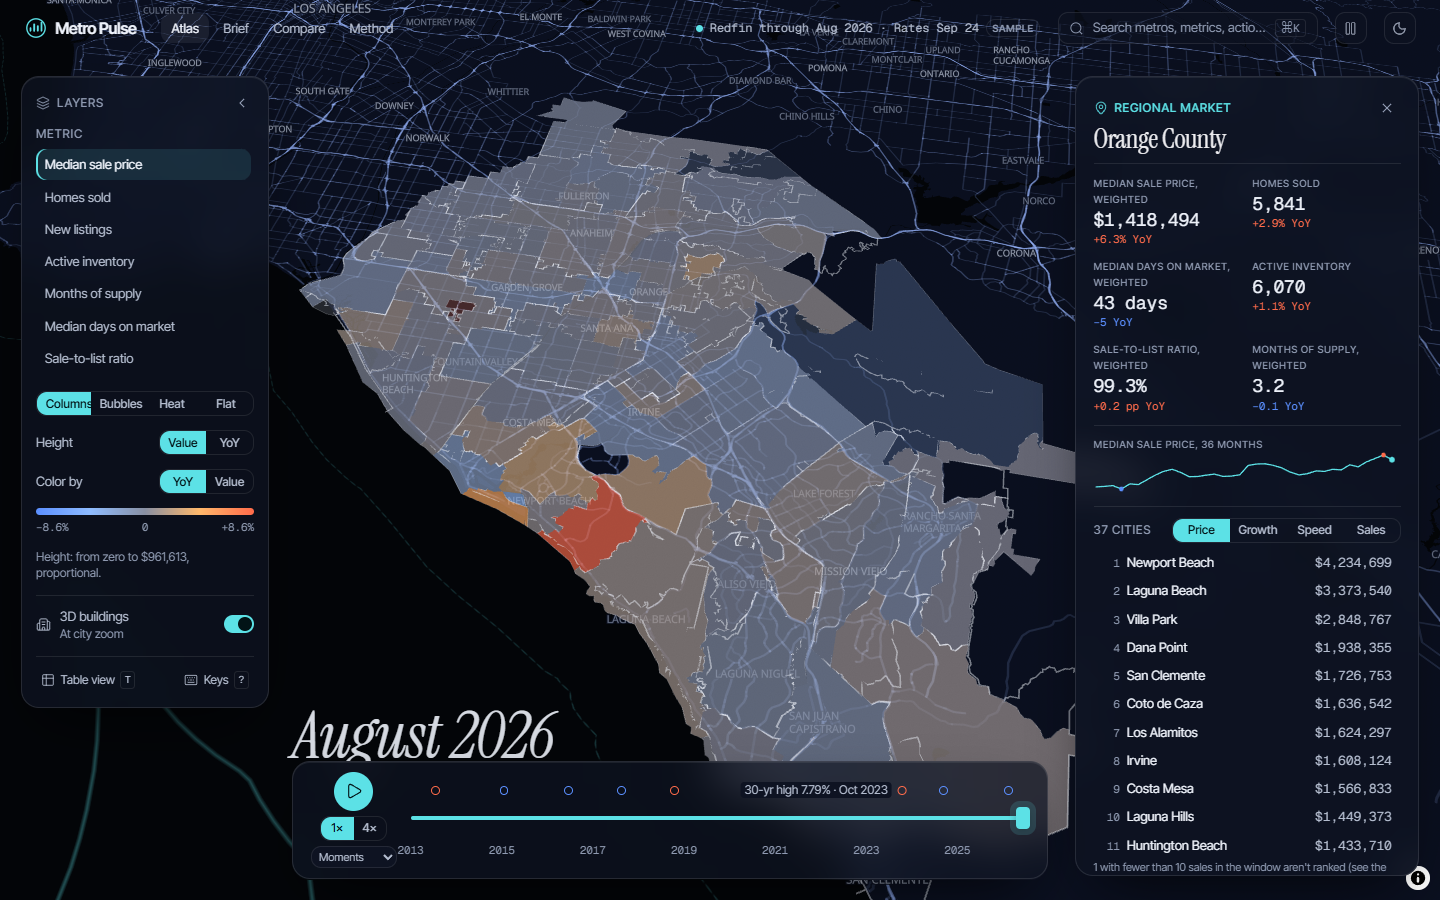
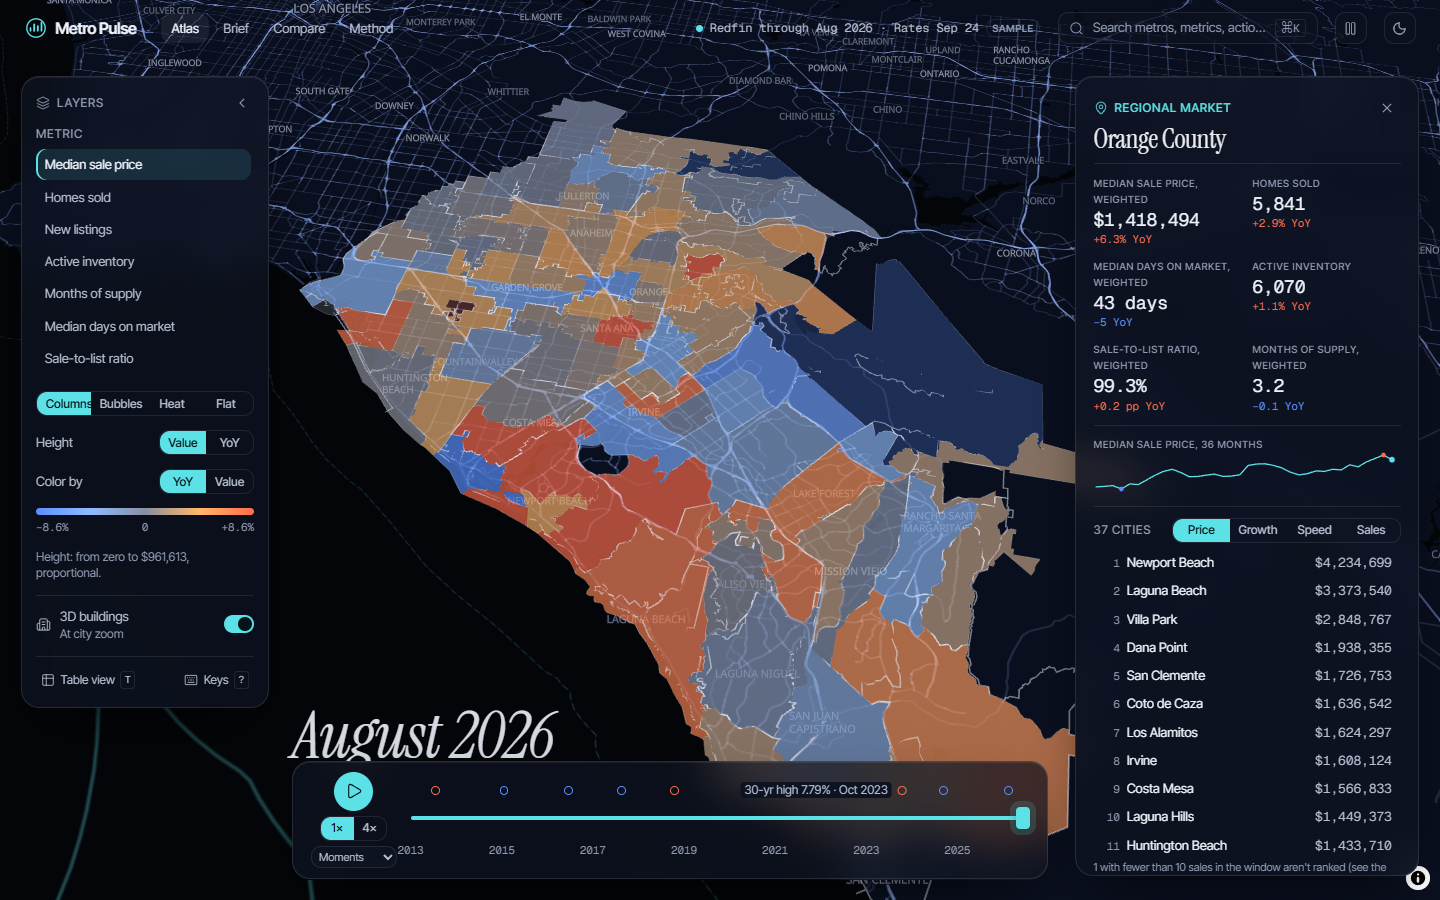
R2: clamp the ZIP YoY colors at the 90th percentile
One +100% ZIP (92657, a luxury mix shift) set the diverging bound and grayed out
the rest of the county; larger changes now take the end colors, and the legend
says so.

Changed region(s): [[0.1875, 0.1244, 0.75, 0.9333]]

diff --git a/dashboard/src/viewmodels/region.ts b/dashboard/src/viewmodels/region.ts
@@ -6,7 +6,7 @@
  * 36-month series with the same rule the atlas uses for metros (`changeAt`).
  */
 import type { MetricRegistryEntry, RegionGeometry, RegionOutput } from '../data/schema.gen';
-import { divergingBound, divergingColor, sequentialColor, type DivergingStops, type RGB } from '../lib/columns';
+import { divergingColor, robustBound, sequentialColor, type DivergingStops, type RGB } from '../lib/columns';
 import { changeAt } from '../lib/timeline';
 
 export type RegionArea = RegionOutput['zips'][number];
@@ -39,7 +39,7 @@ export interface ZipLayer {
   labels: Array<{ zip: string; lat: number; lon: number; text: string }>;
   /** The month shown ("latest" or a month inside the 36-month series), or null when the metric has no ZIP history for the scrubbed month. */
   month: string | null;
-  scale: { kind: 'yoy'; bound: number } | { kind: 'value'; low: number; high: number };
+  scale: { kind: 'yoy'; bound: number; clamped: boolean } | { kind: 'value'; low: number; high: number };
 }
 
 type Geometry = { type: string; coordinates: unknown } | null;
@@ -78,7 +78,8 @@ export function zipLayer(region: RegionOutput, geometry: RegionGeometry, metric:
   // Scales come from well-sampled ZIPs only, so one or two odd sales can't stretch them.
   const sampled = [...byZip.values()].filter((v) => !v.low);
   const values = sampled.map((v) => v.value).filter((v): v is number => v != null).sort((a, b) => a - b);
-  const bound = divergingBound(sampled.map((v) => v.change));
+  // The 90th percentile of |YoY|: one ZIP's +100% luxury mix shift mustn't gray out the rest (beyond it: the end colors).
+  const bound = robustBound(sampled.map((v) => v.change), 0.9, 0);
   const low = values.length ? quantile(values, 0.05) : 0;
   const high = values.length ? quantile(values, 0.95) : 1;
   const features: ZipFeature[] = [];
@@ -97,7 +98,7 @@ export function zipLayer(region: RegionOutput, geometry: RegionGeometry, metric:
       cities.push({ id: String(p.id), name: String(p.name), paths: polygons(f.geometry).flat(), lat: (p.lat as number) ?? null, lon: (p.lon as number) ?? null });
     }
   }
-  return { features, cities, labels, month: shown ?? region.data_through, scale: colorBy === 'yoy' ? { kind: 'yoy', bound } : { kind: 'value', low, high } };
+  return { features, cities, labels, month: shown ?? region.data_through, scale: colorBy === 'yoy' ? { kind: 'yoy', bound, clamped: sampled.some((v) => v.change != null && Math.abs(v.change) > bound) } : { kind: 'value', low, high } };
 }
 
 // ---------- the panel ----------

diff --git a/dashboard/src/viewmodels/region.test.ts b/dashboard/src/viewmodels/region.test.ts
@@ -37,6 +37,9 @@ describe('region view model (v3 R2)', () => {
     expect(layer.features.find((f) => f.zip === top.id)!.color).toEqual([250, 250, 250]);
     const yoy = zipLayer(region, geometry, PRICE, 'yoy', null, colors as never);
     expect(yoy.scale.kind).toBe('yoy');
+    // The YoY bound is the 90th percentile of well-sampled |YoY|, so an outlier clamps instead of graying the rest.
+    const changes = region.zips.filter((z) => !z.low_sample).map((z) => Math.abs(z.latest.median_sale_price!.yoy ?? 0));
+    if (yoy.scale.kind === 'yoy') expect(yoy.scale.bound).toBeLessThan(Math.max(...changes));
     // A month without ZIP history for the metric falls back to the latest month.
     expect(zipLayer(region, geometry, metric('sold_above_list', 'pp'), 'value', region.dates[5]!, colors as never).month).toBe(region.data_through);
   });

diff --git a/dashboard/src/atlas/RegionPanel.tsx b/dashboard/src/atlas/RegionPanel.tsx
@@ -186,7 +186,7 @@ function RegionLegend({ layer, metric }: { layer: ZipLayer; metric: MetricRegist
         {s.kind === 'yoy' && <span>0</span>}
         <span>{s.kind === 'yoy' ? fmtChange(metric, s.bound) : fmtMetric(metric, s.high)}</span>
       </div>
-      <div className="text-[10px] text-mp-ink-3">{s.kind === 'value' ? "5th to 95th percentile of the region's ZIPs. " : ''}Faded: fewer than 10 sales.</div>
+      <div className="text-[10px] text-mp-ink-3">{s.kind === 'value' ? "5th to 95th percentile of the region's ZIPs. " : s.clamped ? 'Larger changes take the end colors. ' : ''}Faded: fewer than 10 sales.</div>
     </div>
   );
 }

diff --git a/DECISIONS.md b/DECISIONS.md
@@ -332,7 +332,7 @@ One line per consequential judgment call made while working unattended.
 
 - R1 merged to `main` (f0b7551).
 - **Where it lives:** in the atlas, not a new page: `?region=orange-county` (from ⌘K, the idle panel's "Regional markets", or a link) frames the county, hides the region's own metro column (it would stand in the middle of its ZIPs), and draws **every ZIP as a choropleth** under the other metros' columns, with **city outlines** and **ZIP labels** from zoom ~11. `&city=<GEOID>` and `&zip=<ZIP>` hold the drill-down.
-- **Colors:** YoY uses the atlas's diverging scale (bound = the largest well-sampled |YoY|); value uses the one-hue ramp stretched between the region's **5th and 95th percentile** (a ZIP choropleth from zero would be one flat color: Orange County ZIPs run ~$600K-$8M). The ramp's floor sits further off the Night canvas than the columns' (0.36 vs 0.22 ink), so cheap ZIPs don't read as holes.
+- **Colors:** YoY uses the atlas's diverging scale with the bound at the **90th percentile** of well-sampled |YoY| (the first cut used the largest, and one Newport Coast ZIP at +100% grayed out the county; larger changes now take the end colors, and the legend says so); value uses the one-hue ramp stretched between the region's **5th and 95th percentile** (a ZIP choropleth from zero would be one flat color: Orange County ZIPs run ~$600K-$8M). The ramp's floor sits further off the Night canvas than the columns' (0.36 vs 0.22 ink), so cheap ZIPs don't read as holes.
 - **Low samples** (the owner's use case is decisions, so this matters): the agent flags an area with fewer than 10 homes sold in the 3-month window (`low_sample`, schema field with a default) and leaves it out of the ranks; the map fades it, lists skip it, the table marks it †, and its panel says why ("Only 1 homes sold…"). The first cut ranked a one-sale Seal Beach ZIP 3rd in the county by price. 6 ZIPs and 1 city (Silverado) are flagged in the sample.
 - **The panel:** county → city → ZIP with breadcrumbs, six KPIs (city and county ones labelled "weighted" where they are), a 36-month price trend, ranks ("#6 of 87 by price"), and a ranked list by price / growth / speed / sales. **The table view** becomes the region's table (ZIPs or cities, sortable, CSV). **Area search** gains "ZIP codes inside" from the loaded region (same pure function as counties).
 - **The time machine:** within the last 36 months the ZIPs show the scrubbed month for price, sales, inventory and days on market (the published series; a past month's YoY by the atlas's `changeAt`); for other metrics or older months the map stays on the latest month and the panel says so.
